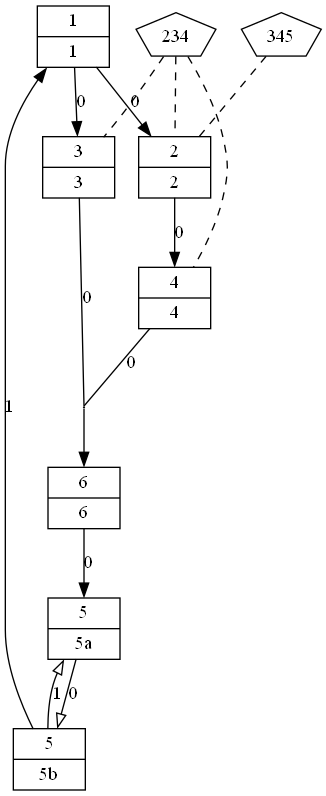
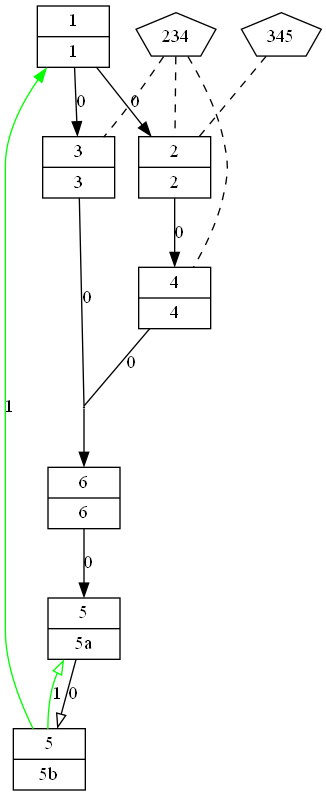
Colors for Semaphores Update

diff --git a/TaskVisualizer/Backend/src/Diagram.py b/TaskVisualizer/Backend/src/Diagram.py
@@ -176,10 +176,16 @@ class Diagram(IDiagram):
             waiting_activities = semaphore.get_waiting_activities()    
         
             if len(semaphore.get_combined()) == 0:
-                if actuators[0].get_task() == waiting_activities[0].get_task():
-                    dot.edge(f'{actuators[0].get_name()}', f'{waiting_activities[0].get_name()}', label=semaphore.get_state(), arrowhead='onormal', color='black')
+                if semaphore.get_state() == '0':
+                    if actuators[0].get_task() == waiting_activities[0].get_task():
+                        dot.edge(f'{actuators[0].get_name()}', f'{waiting_activities[0].get_name()}', label=semaphore.get_state(), arrowhead='onormal', color='black')
+                    else:
+                        dot.edge(f'{actuators[0].get_name()}', f'{waiting_activities[0].get_name()}', label=semaphore.get_state(), arrowhead='', color='black')    
                 else:
-                    dot.edge(f'{actuators[0].get_name()}', f'{waiting_activities[0].get_name()}', label=semaphore.get_state(), arrowhead='', color='black')
+                    if actuators[0].get_task() == waiting_activities[0].get_task():
+                        dot.edge(f'{actuators[0].get_name()}', f'{waiting_activities[0].get_name()}', label=semaphore.get_state(), arrowhead='onormal', color='green')
+                    else:
+                        dot.edge(f'{actuators[0].get_name()}', f'{waiting_activities[0].get_name()}', label=semaphore.get_state(), arrowhead='', color='green')
             else:
                 combi = semaphore.get_combined()
                 name =  ''
